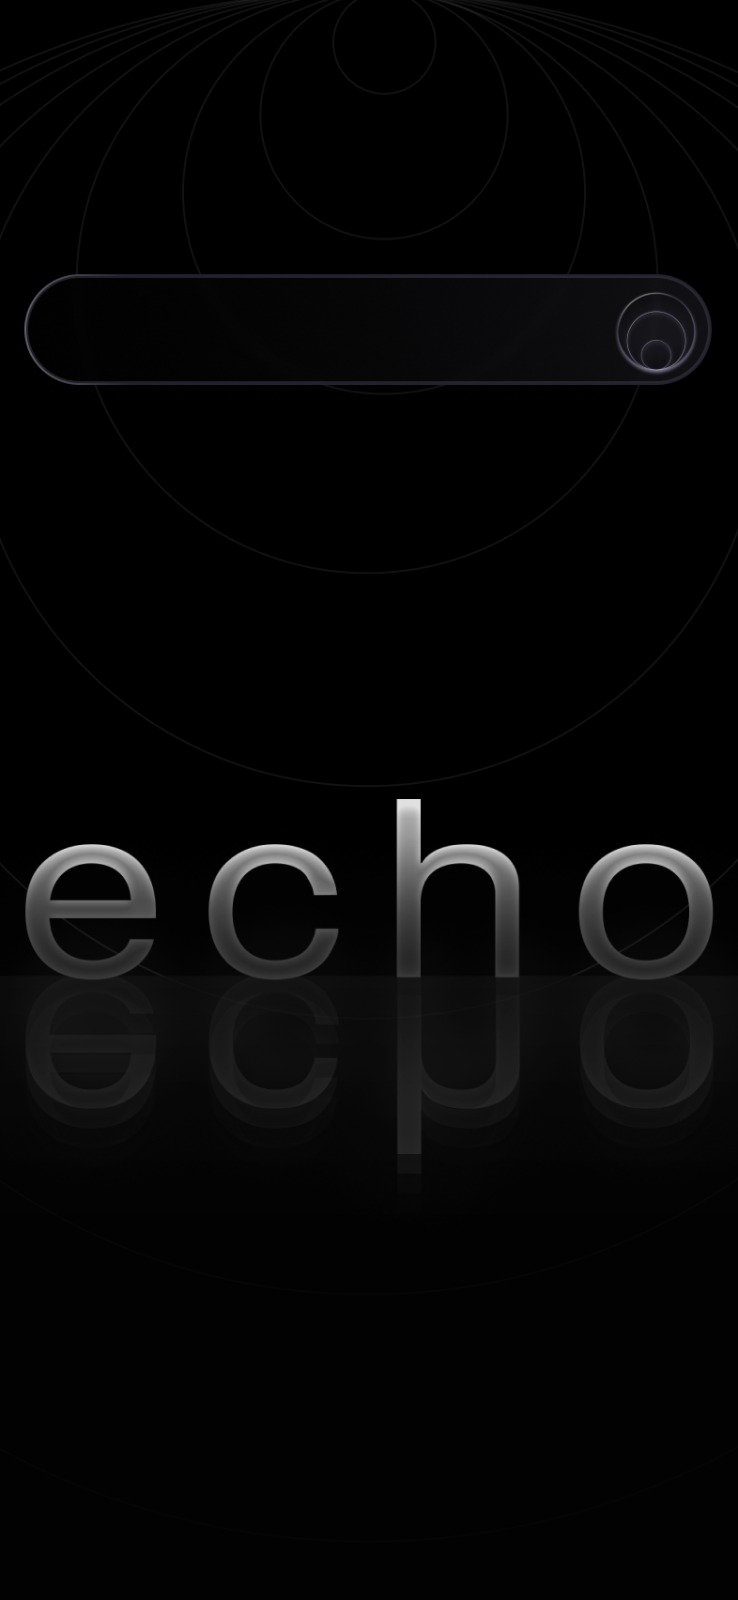
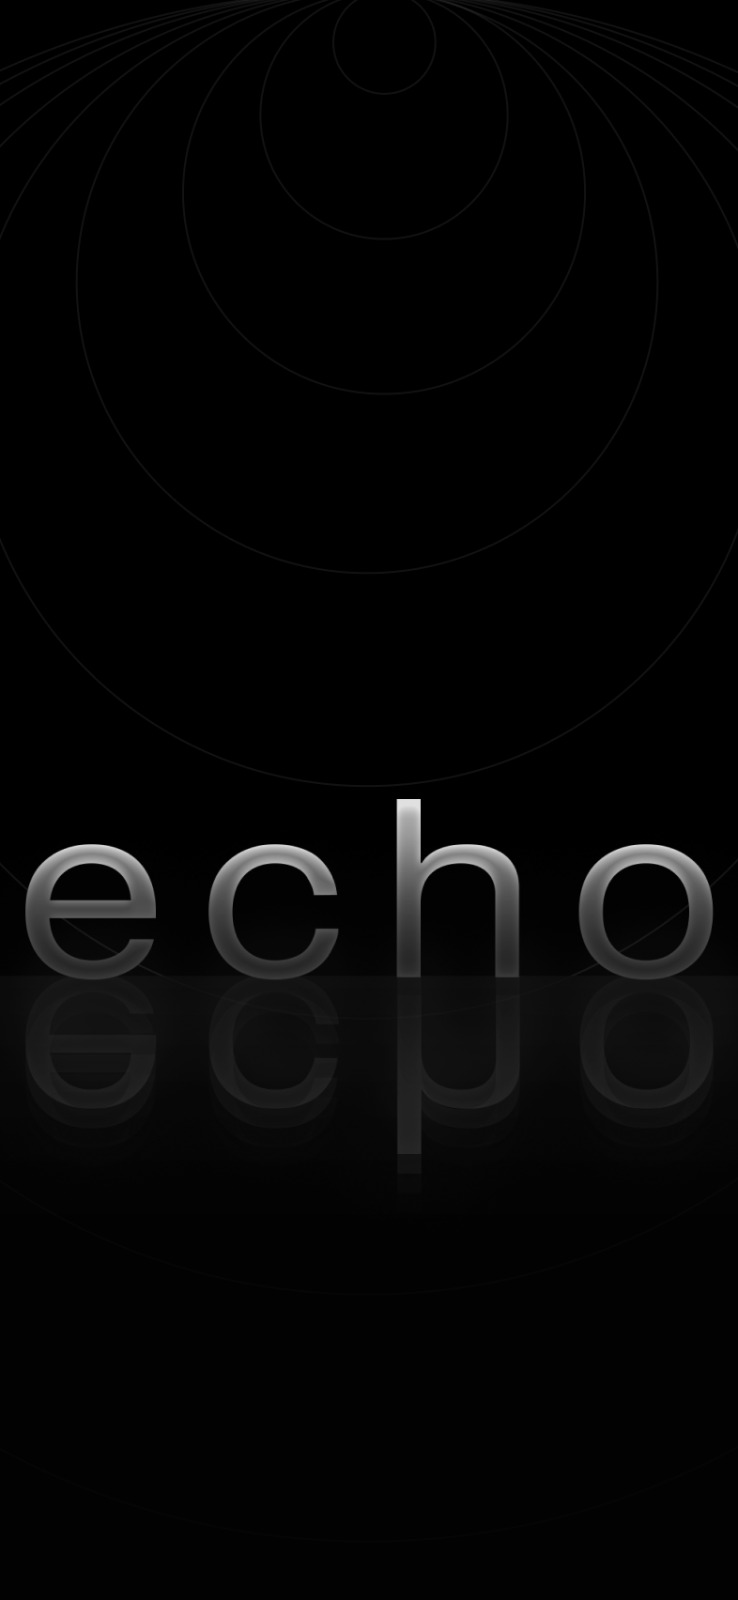
Responsividade
Adicionado responsividade na tela principal, input para pesquisa no site inteiro e mudança do background.

Changed region(s): [[0.8103, 0.1562, 0.9661, 0.25], [0.0312, 0.1875, 0.0623, 0.2188]]

diff --git a/index.html b/index.html
@@ -6,24 +6,29 @@
     <meta name="viewport" content="width=device-width, initial-scale=1.0">
     <link rel="stylesheet" href="assets/styles/style.css">
     <link rel="shortcut icon" href="assets/img/echologo.png" type="image/x-icon">
+    <script src="/assets/js/input.js"></script>
     <title>| Echo</title>
 </head>
 
 <body>
     <header>
         <div class="interface">
-            <p>.</p>
+            <p> </p>
             <nav class="desktop-menu">
                 <ul>
                     <li><a href="#slogan">Inicio</a></li>
                     <li><a href="#sobre">Sobre</a></li>
-                    <li><a href="#"">Serviços</a></li>
-                        <li><a href=" #"">Contato</a></li>
+                    <li><a href="#">Serviços</a></li>
+                    <li><a href="#">Contato</a></li>
                 </ul>
             </nav>
             <figure>
                 <img id="echo-logo" src="./assets/img/logo png.png">
             </figure>
+            <div class="input-container">
+                <img src="assets/img/logo png.png" alt="Ícone" />
+                <input placeholder="O que procura?" type="text" id="campoLetras" class="search" autocomplete="off" onkeydown="validarApenasLetras(event)">
+            </div>
         </div>
     </header>
     <section id="sobre">
@@ -67,7 +72,5 @@
             </figure>
         </div>
     </section>
-
 </body>
-
 </html>

diff --git a/assets/styles/style.css b/assets/styles/style.css
@@ -131,6 +131,10 @@ header nav.desktop-menu ul li{
     transition: 0.3s;
 }
 
+.search{
+    display: none;
+}
+
 /* About Style */
 #sobre{
     background-image: url(../img/SOBRE\ wallpaper.png);
@@ -205,5 +209,33 @@ section p{
     #echo-logo{
         display: none;
     }
+    .search{
+    display: flex;
+    position: absolute;
+    width: 366px;
+    height: 59px;
+    left: 0px;
+    top: 0px;
+    padding-left: 20px;
+    margin-left: 11px;
+    color: #fff;
+    background: linear-gradient(90deg, rgba(0, 0, 0, 0) -22.95%, rgba(90, 87, 108, 0.231) 114.34%);
+    backdrop-filter: blur(4.05px);
+    border-radius: 29.5px;
+    transition: 0.3s;
+    }
+    .search:focus{
+    box-shadow: rgba(161, 161, 161, 0.25) 0px 54px 55px, rgba(161, 161, 161, 0.12) 0px -12px 30px, rgba(161, 161, 161, 0.12) 0px 4px 6px, rgba(161, 161, 161, 0.17) 0px 12px 13px, rgba(161, 161, 161, 0.09) 0px -3px 5px;
+    transition: 0.3s;
+    }
 
+    .input-container img {
+        position: absolute;
+        left: 18em;
+        top: 50%;
+        transform: translateY(-30%);
+        width: 100px;
+        height: auto;
+        z-index: 2;
+    }
 }

diff --git a/assets/js/input.js b/assets/js/input.js
@@ -1,0 +1,7 @@
+function validarApenasLetras(event) {
+    var input = event.key;
+
+    if (!/[a-zA-Z]/.test(input)) {
+      event.preventDefault();
+    }
+}
